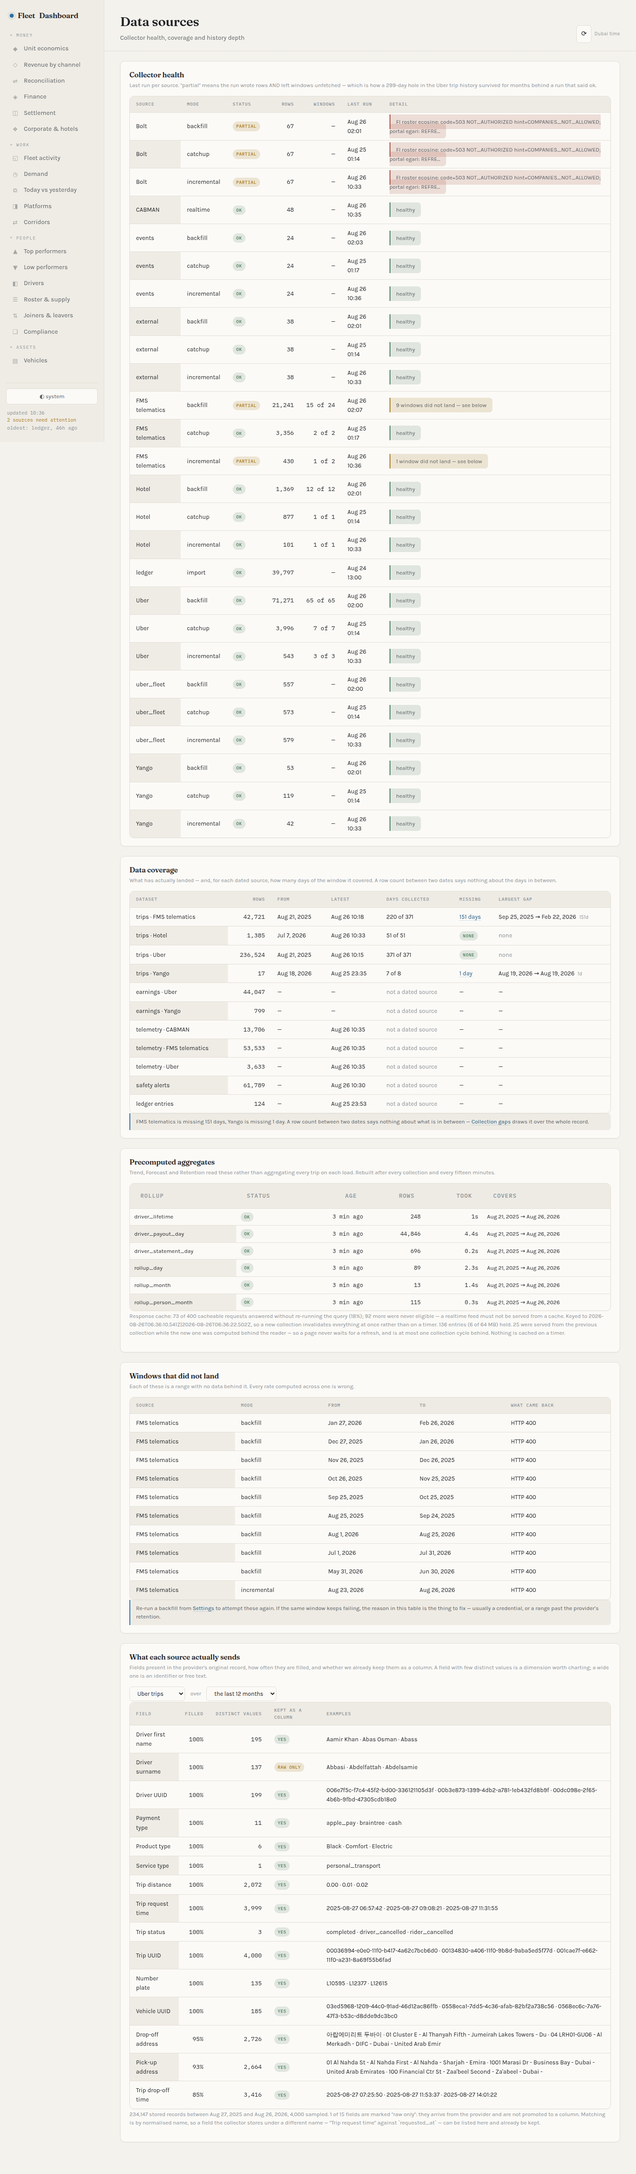
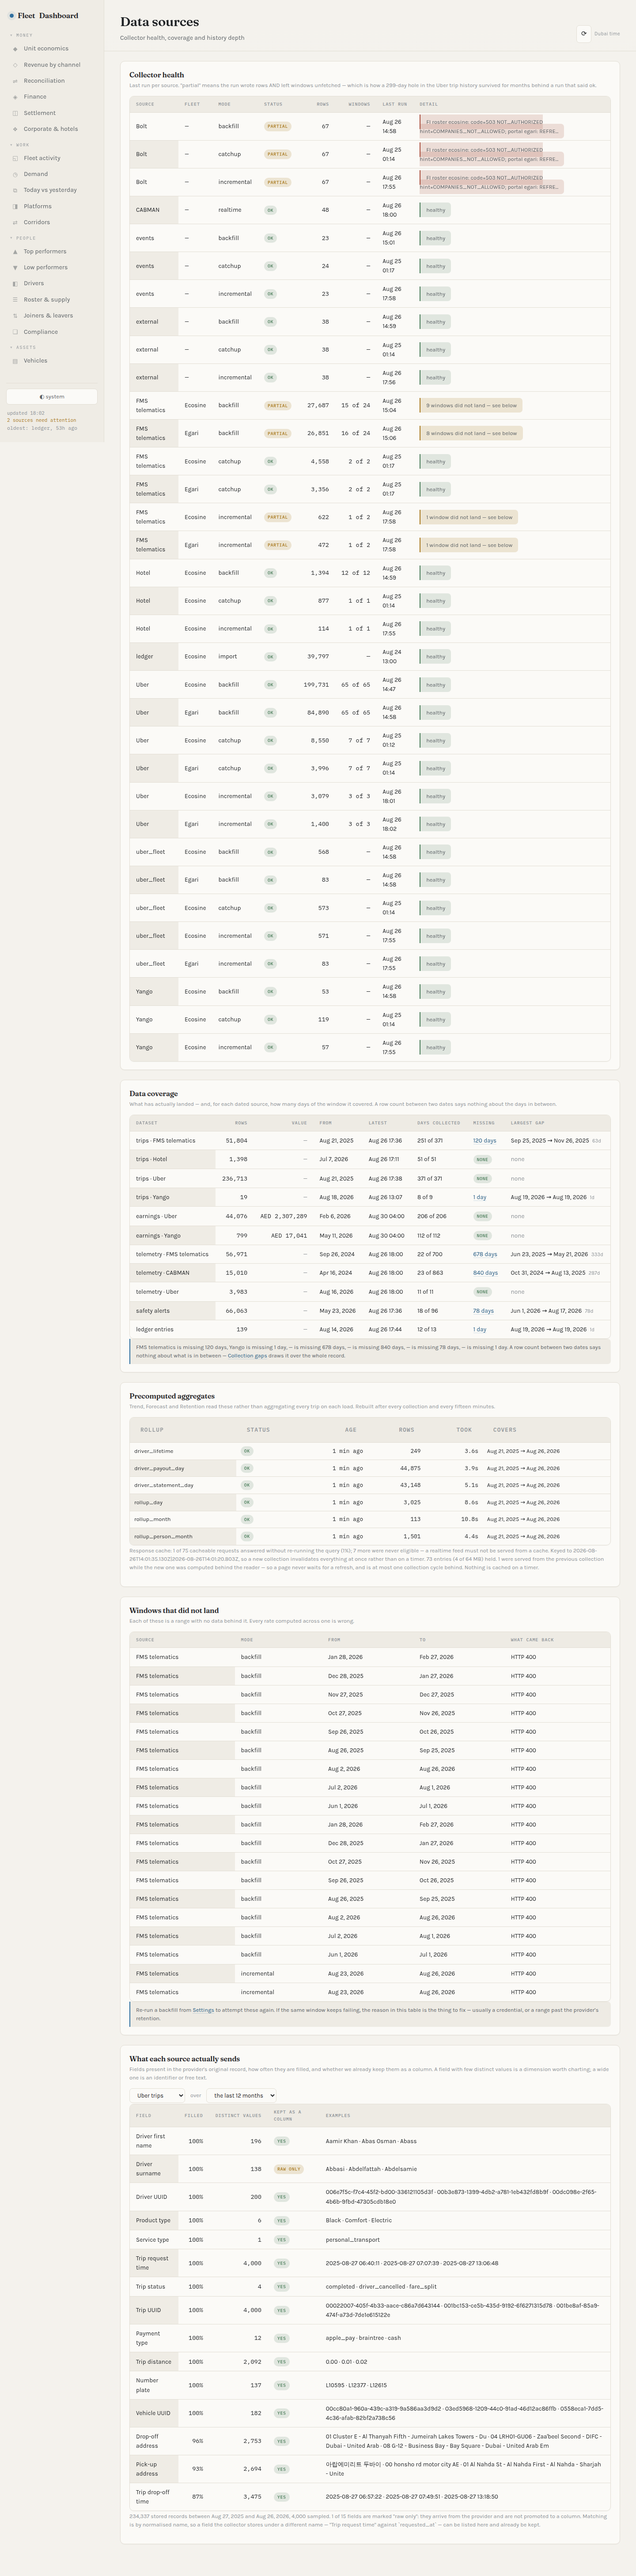
Do not report dead trackers as a collection failure
The coverage columns added a moment ago immediately said something
alarming and untrue: CABMAN telemetry, 23 days collected of 863, 840
missing, largest gap 287 days. The record is not broken. This fleet
has trackers that stopped years ago — the collector logs "vehicles
listed but not reporting, dormant 15 of 48, oldest_days 862" — and
their last surviving fix drags min(captured_at) back to April 2024,
so a span computed from it describes fifteen dead units as a
catastrophic outage.

captured_at is when the TRACKER saw the vehicle. polled_at is when we
asked, and it advances every observation, so a day with a poll on it
is a day we collected — which is the question the column asks.
src/reconcile.js already draws exactly this distinction. schema_v36
adds the matching Dubai-day expression index, and the index guard
lists it, so the grouping cannot quietly become a sequential scan.

The second half is the same mistake in a different place: safety
alerts showed 78 days missing. Alerts happen when something happens
and the ledger arrives when somebody imports one — neither promises a
row every day, so counting the quiet ones as gaps reports a calm
fortnight as a failure. Those datasets are marked event-driven and
say "not a daily feed" rather than accusing anybody.

A page that cries wolf about its own record is worse than one that
says nothing, which is the whole reason these columns were filled in.

Claude-Session: https://claude.ai/code/session_017PxcnnMZS9YdEgsRQYy4oM

diff --git a/collector/api/server.js b/collector/api/server.js
@@ -1793,6 +1793,7 @@ app.get('/api/coverage', wrap(async (req, res) => {
        production that was 7 of 11 rows with no start date on the page whose
        job is to say how far back the record goes. */
     q(`SELECT source, count(*)::int n, min(captured_at) from_ts,
+              min(polled_at) collected_from,
               max(polled_at) last_poll FROM telemetry_snapshot
        WHERE ($1::text IS NULL OR fleet_id=$1) GROUP BY 1`, [fl]),
     q(`SELECT count(*)::int n, min(occurred_at) from_ts, max(occurred_at) latest FROM alert
@@ -1828,10 +1829,24 @@ app.get('/api/coverage', wrap(async (req, res) => {
        gap-finder the calendar uses (api/coverage_gaps.js).
 
        Dubai days, like every other calendar key in this product. */
+    /* polled_at, not captured_at — OUR clock, not the tracker's.
+       ─────────────────────────────────────────────────────────────────────
+       captured_at is when the device says the fix happened, and this fleet
+       has trackers that stopped years ago: the collector logs "vehicles
+       listed but not reporting, dormant 15 of 48, oldest_days 862". Their
+       last surviving fix drags min(captured_at) back to 2024, so a span
+       computed from it reported CABMAN as 23 days collected of 863 and 840
+       missing — which reads as a catastrophic collection failure and is
+       actually fifteen dead units and one fix from April 2024.
+
+       polled_at advances every time the collector observes a vehicle, so a
+       day with a poll on it is a day we collected. That is the question this
+       column asks. src/reconcile.js draws the same distinction for the same
+       reason. */
     q(`SELECT 'telemetry:' || source AS dataset,
-              to_char((captured_at AT TIME ZONE 'Asia/Dubai')::date, 'YYYY-MM-DD') AS day,
+              to_char((polled_at AT TIME ZONE 'Asia/Dubai')::date, 'YYYY-MM-DD') AS day,
               count(*)::int rows
-         FROM telemetry_snapshot WHERE captured_at IS NOT NULL
+         FROM telemetry_snapshot WHERE polled_at IS NOT NULL
          GROUP BY 1, 2 ORDER BY 1, 2`),
     q(`SELECT 'alerts' AS dataset,
               to_char((occurred_at AT TIME ZONE 'Asia/Dubai')::date, 'YYYY-MM-DD') AS day,
@@ -1909,8 +1924,15 @@ app.get('/api/coverage', wrap(async (req, res) => {
   for (const rows of [telDays, alertDays, ledgerDays, earnDays]) {
     for (const r of rows) (calendars[r.dataset] ||= []).push({ day: r.day, rows: r.rows });
   }
+  /* A quiet day is not a gap on an EVENT-DRIVEN dataset. Safety alerts happen
+     when something happens, and the ledger arrives in batches when the
+     operator imports one — neither promises a row every day, so "78 days
+     missing" about them describes a calm fortnight as a collection failure.
+     They keep their span and their day count and say so instead. */
+  const EVENT_DRIVEN = new Set(['alerts', 'ledger']);
   const dataset_calendar = Object.fromEntries(
-    Object.entries(calendars).map(([k, days]) => [k, spanGaps(days)]));
+    Object.entries(calendars).map(([k, days]) => [k,
+      { ...spanGaps(days), event_driven: EVENT_DRIVEN.has(k) }]));
   res.json({ trips, telemetry, alerts, ledger, earnings, earnings_gaps: gaps,
     dataset_calendar });
 }));

diff --git a/collector/api/public/app.js b/collector/api/public/app.js
@@ -3292,8 +3292,14 @@ V.sources = async (root) => {
     /* The link carries the range and the anchor. It was a bare `#coverage`,
        which opens on the default thirty days — a page that then reports
        "MISSING DAYS 1" and denies the 152-day gap the link was named after. */
+    /* An event-driven dataset has no missing days. Safety alerts happen when
+       something happens and the ledger arrives when somebody imports one —
+       neither promises a row every day, so counting the quiet ones as gaps
+       describes a calm fortnight as a collection failure. */
     { label: 'Missing', key: '_m', render: (r) => (!r.cal ? '—'
-      : r.cal.missing_days
+      : r.cal.event_driven
+        ? '<span class="ent-off" title="this dataset records events, not a daily feed — a day with nothing on it is a quiet day, not a gap">not a daily feed</span>'
+        : r.cal.missing_days
         /* The anchor rides in the QUERY, not as a second '#'.
            ─────────────────────────────────────────────────────────────────
            This built `#coverage?days=365#src-fms`, and parseHash splits the
@@ -3307,6 +3313,9 @@ V.sources = async (root) => {
           + `${countOf(r.cal.missing_days, 'day')}</a>`
         : pill('none', 'ok')) },
     { label: 'Largest gap', key: '_g', render: (r) => {
+      if (r.cal?.event_driven) {
+        return '<span class="ent-off" title="this dataset records events, not a daily feed">—</span>';
+      }
       const g = r.cal && r.cal.gaps && r.cal.gaps[0];
       return g ? `${dateStr(g.from)} → ${dateStr(g.to)} <small class="dim">${g.days}d</small>`
         : (r.cal ? '<span class="ent-off">none</span>' : '—');

diff --git a/collector/src/schema_files.js b/collector/src/schema_files.js
@@ -21,5 +21,5 @@ export const SCHEMA_FILES = [
   'schema_v22.sql', 'schema_v23.sql', 'schema_v24.sql', 'schema_v25.sql',
   'schema_v26.sql', 'schema_v27.sql', 'schema_v28.sql', 'schema_v29.sql',
   'schema_v30.sql', 'schema_v31.sql', 'schema_v32.sql', 'schema_v33.sql',
-  'schema_v34.sql', 'schema_v35.sql',
+  'schema_v34.sql', 'schema_v35.sql', 'schema_v36.sql',
 ];
